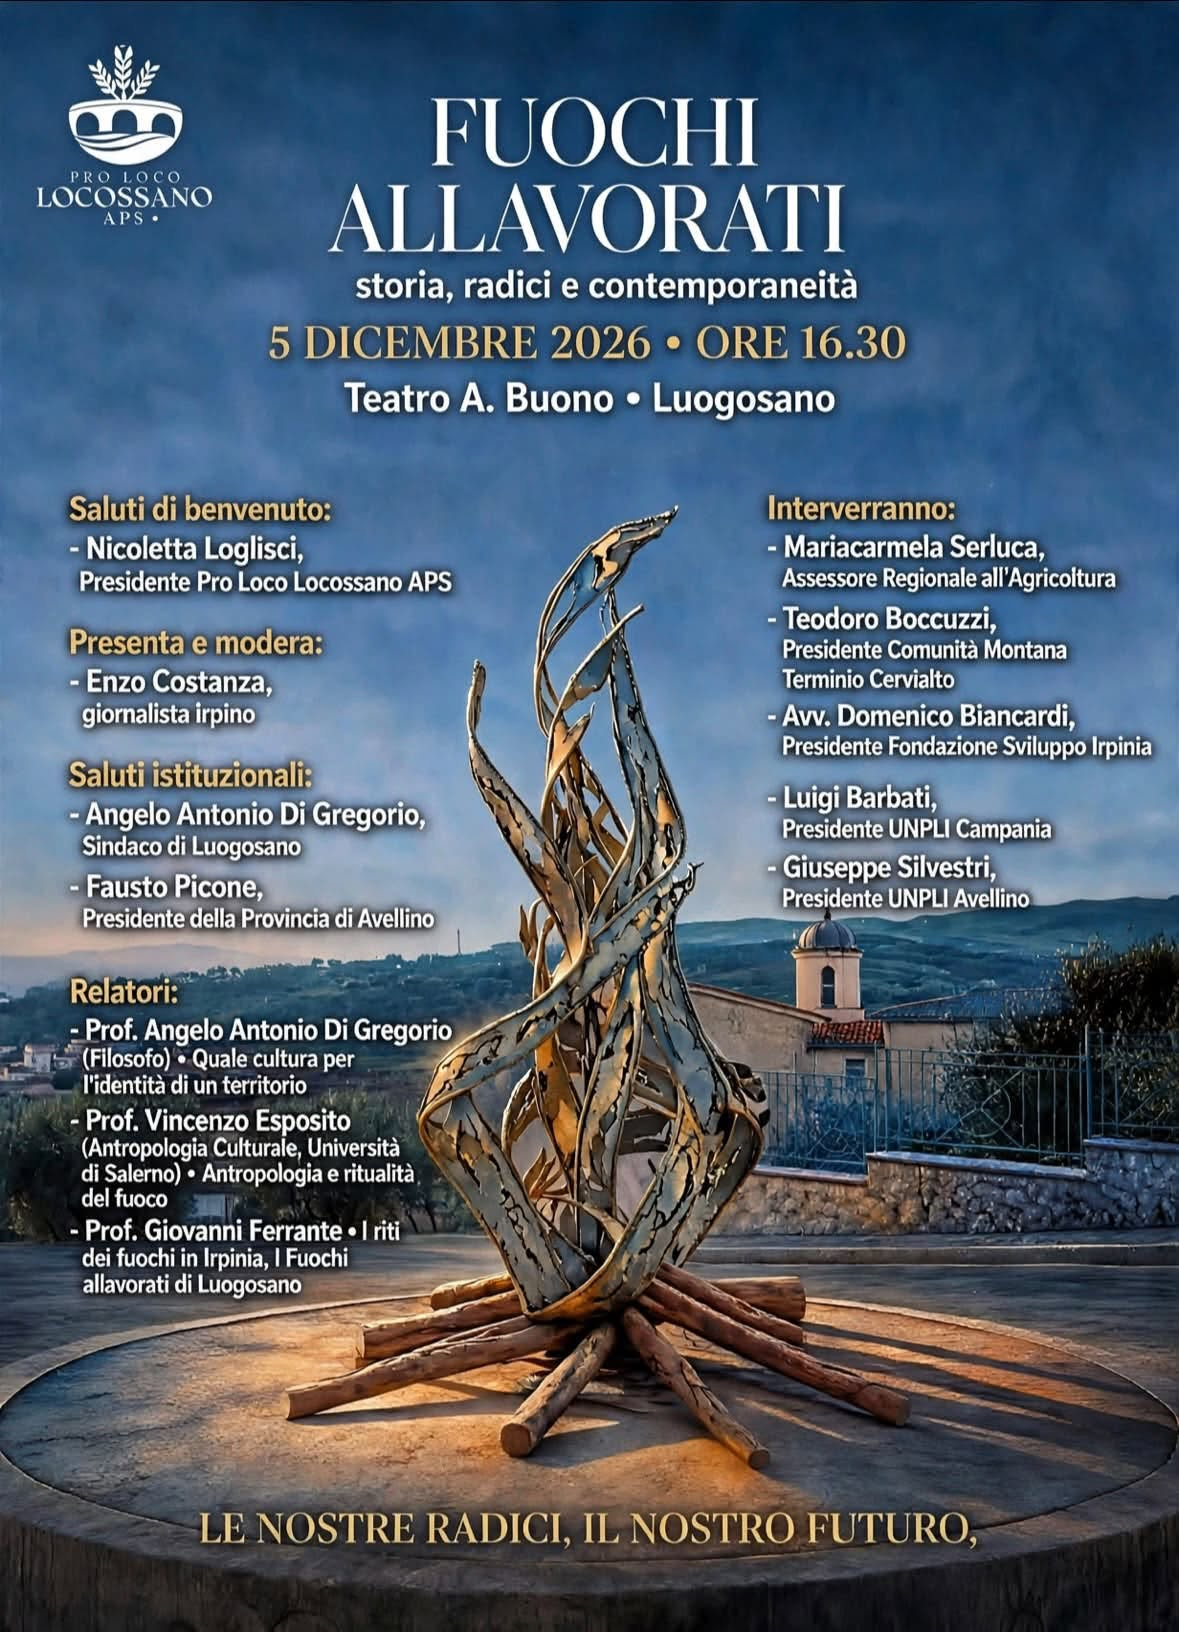
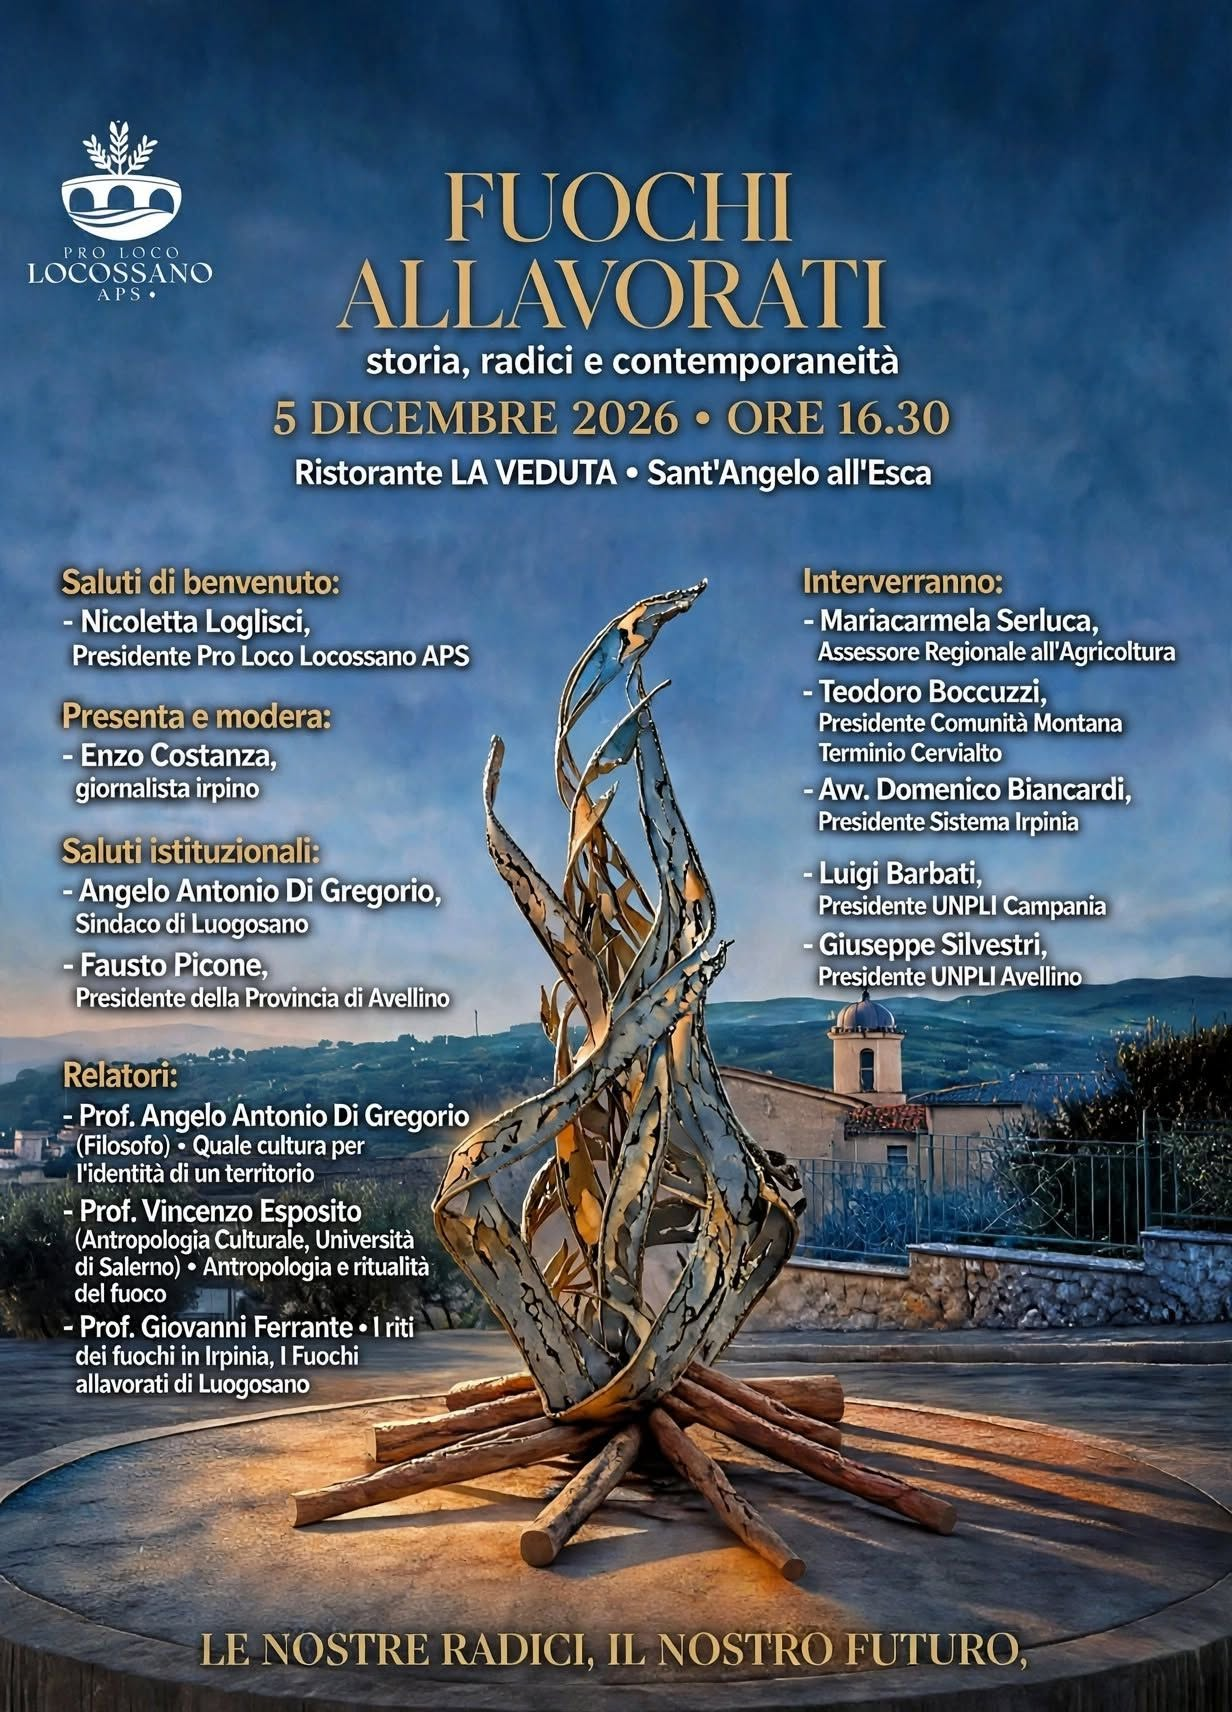
modifica location convegno 5 Dicembre

diff --git a/en/index.html b/en/index.html
@@ -112,7 +112,7 @@
   <div>
     <p class="eyebrow">CONFERENCE</p>
     <h3 id="convegno">Fuochi Allavorati <em>· <span>History, roots and the present day</span></em></h3>
-    <p class="conference-venue">Teatro A. Buono · Luogosano</p>
+    <p class="conference-venue">Ristorante La Veduta · Sant’Angelo all’Esca</p>
   </div>
   <a class="text-link" href="../convegno.jpg" target="_blank" rel="noopener">Conference poster (Italian) <span aria-hidden="true">↗</span></a>
 </article>

diff --git a/index.html b/index.html
@@ -112,7 +112,7 @@
   <div>
     <p class="eyebrow">CONVEGNO</p>
     <h3 id="convegno">Fuochi Allavorati <em>· <span>Storia, radici e contemporaneità</span></em></h3>
-    <p class="conference-venue">Teatro A. Buono · Luogosano</p>
+    <p class="conference-venue">Ristorante La Veduta · Sant’Angelo all’Esca</p>
   </div>
   <a class="text-link" href="convegno.jpg" target="_blank" rel="noopener">Locandina del convegno <span aria-hidden="true">↗</span></a>
 </article>

diff --git a/en/index.md b/en/index.md
@@ -24,7 +24,7 @@ From the first gathering to the music of the final evening. Find your moment. Ex
 
 ### Fuochi Allavorati · History, roots and the present day
 
-Teatro A. Buono · Luogosano
+Ristorante La Veduta · Sant’Angelo all’Esca
 
 [Conference poster (Italian) ↗](https://fuochiallavorati.it/convegno.jpg)
 

diff --git a/index.md b/index.md
@@ -24,7 +24,7 @@ Dal primo gesto alla musica dell’ultima sera. Trova il tuo momento, vivili tut
 
 ### Fuochi Allavorati · Storia, radici e contemporaneità
 
-Teatro A. Buono · Luogosano
+Ristorante La Veduta · Sant’Angelo all’Esca
 
 [Locandina del convegno ↗](https://fuochiallavorati.it/convegno.jpg)
 
